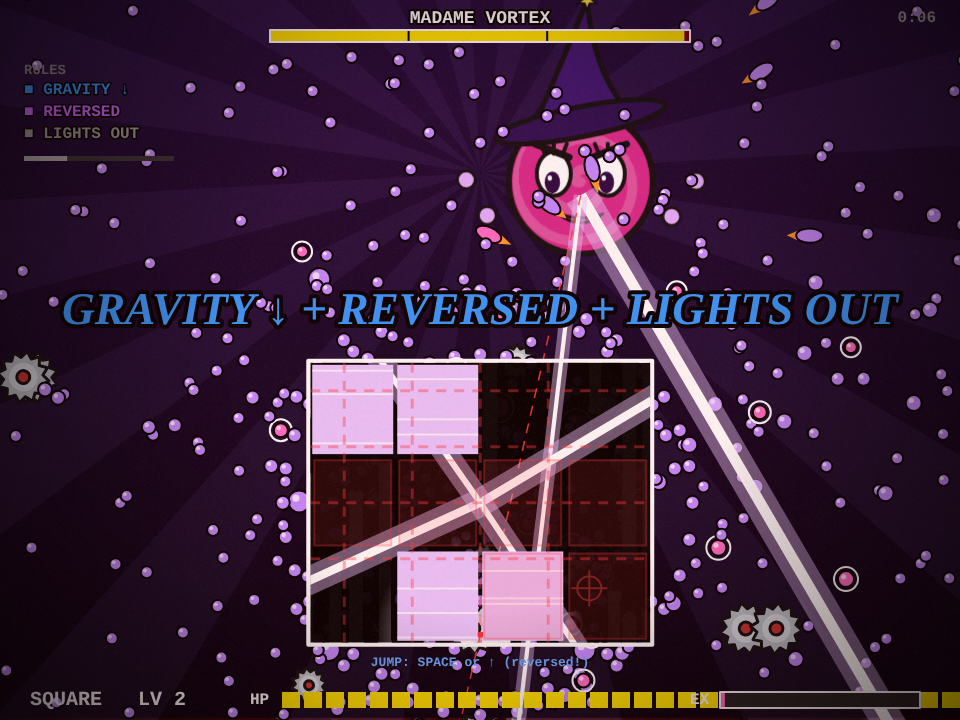
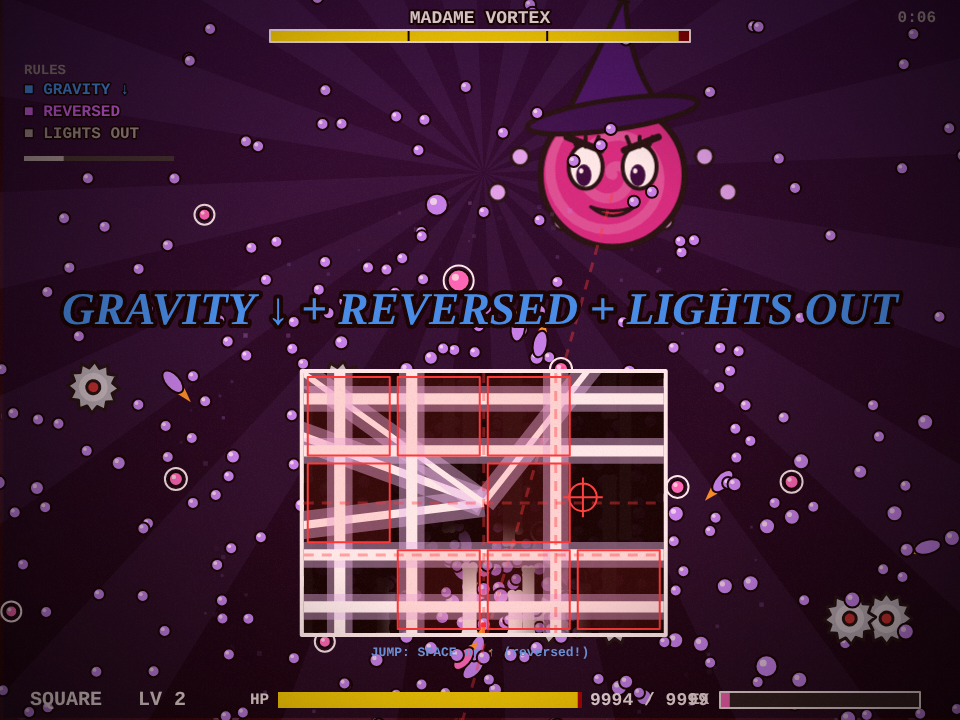
Square follows the time modifiers; tone attacks down a bit
The player now runs on world time, so it moves at half speed in SLOW-MO and
1.5x in FAST FORWARD. Bullet density is ~15% lower, bullet speed ~10% lower,
and double attacks happen 25% less often.

Claude-Session: https://claude.ai/code/session_01MQ1NMqZ5Rz8dFHXniT6Aqg

diff --git a/game.js b/game.js
@@ -786,8 +786,9 @@ function startFight(idx) {
   state = 'fight';
 }
 function setDS() {
-  F.D = 1 + 0.15 * F.idx + 0.25 * F.phase;
-  F.S = 1 + 0.07 * F.idx + 0.12 * F.phase;
+  // D = bullet density, S = bullet speed
+  F.D = 0.85 * (1 + 0.13 * F.idx + 0.22 * F.phase);
+  F.S = 0.9 * (1 + 0.06 * F.idx + 0.11 * F.phase);
 }
 function computeBox(dt) {
   const b = F.box, k = dt === undefined ? 1 : Math.min(1, dt * 9);
@@ -980,7 +981,7 @@ function updateFight(dt) {
   computeBox(dt);
   updateBoss(wdt);
   if (f.stage === 'fight') { runSched(); runAI(); }
-  updatePlayer(dt);
+  updatePlayer(wdt); // the square speeds up / slows down with the time modifiers too
   if (state !== 'fight') return;
   updateBullets(wdt);
   updateShots(dt);
@@ -1005,7 +1006,7 @@ function runAI() {
   f.lastAtk = a;
   let dur = ATK[a]();
   const dc = f.def.double[f.phase];
-  if (dc && chance(dc)) {
+  if (dc && chance(dc * 0.75)) {
     const b = pick(pool.filter(x => x !== a));
     dur = Math.max(dur, ATK[b]());
   }
